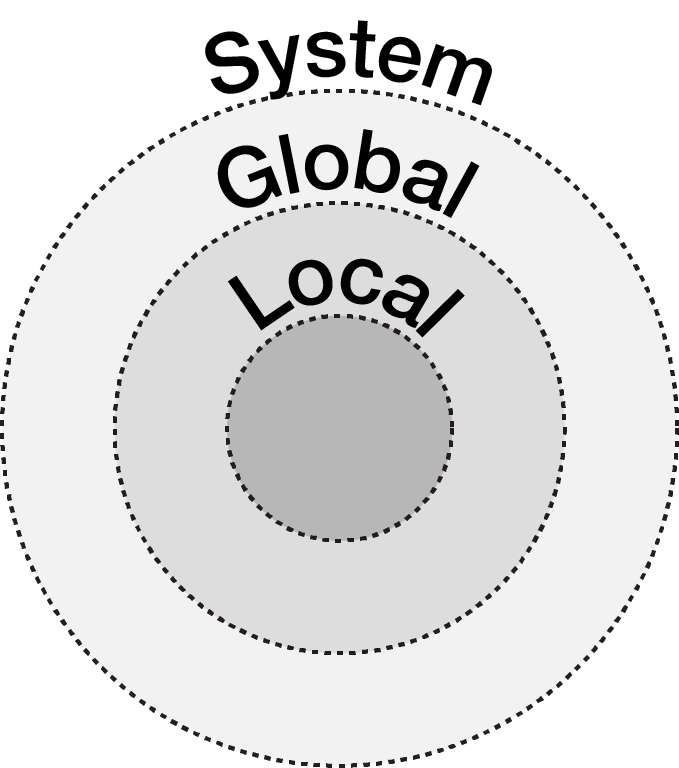
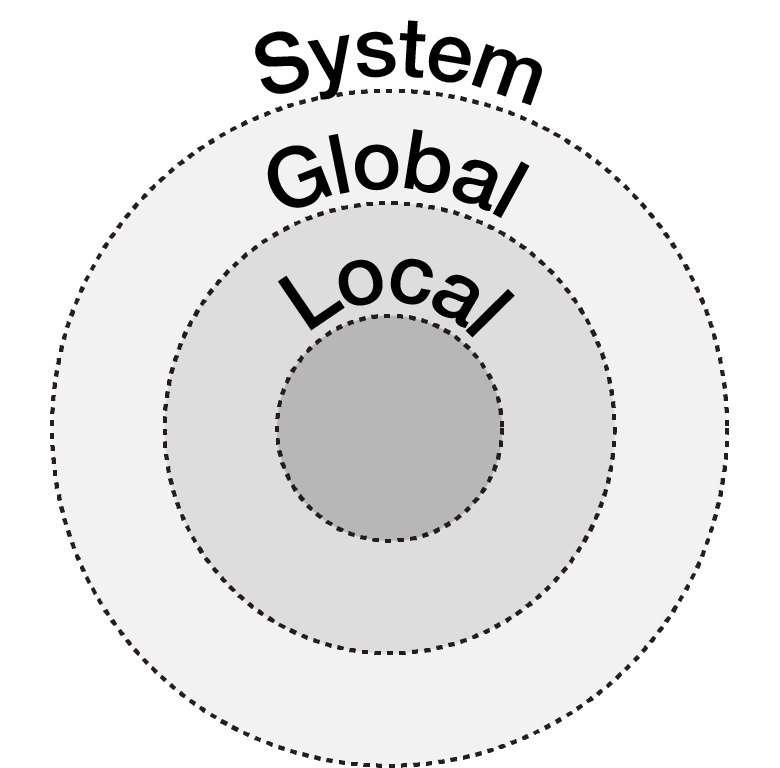
Updated slide titles, chapter titles, and diagrams

diff --git a/presentations/_posts/rm-mv/0001-01-01-title.md b/presentations/_posts/rm-mv/0001-01-01-title.md
@@ -5,7 +5,9 @@ title: ''
 tags: ['rm-mv']
 ---
 
-<img class="diagram" src="assets/diagrams/git-file-states.png">
+<div class="diagram-group">
+	<img class="diagram" src="assets/diagrams/git-file-states.png">
+</div>
 
 {% include hydeslides/notes-open.html %}
 (Diagram: Removing Files)

diff --git a/presentations/_posts/commit/0001-02-01-title.md b/presentations/_posts/commit/0001-02-01-title.md
@@ -6,3 +6,7 @@ tags: ['commit']
 ---
 
 <img class="diagram" src="assets/diagrams/git-commit-structure.png">
+
+{% include hydeslides/notes-open.html %}
+three stage thinking
+{% include hydeslides/notes-close.html %}

diff --git a/presentations/_posts/config/0007-01-01-title.md b/presentations/_posts/config/0007-01-01-title.md
@@ -4,9 +4,6 @@ layout: slide
 title: Secure Sockets Host (SSH)
 tags: ['config']
 ---
-
-Generate an ssh key pair
-
 	$ ssh-keygen -t rsa -C”For GitHub”
 
 	# Verify the files were created

diff --git a/presentations/_posts/config/0002-02-01-title.md b/presentations/_posts/config/0002-02-01-title.md
@@ -4,5 +4,6 @@ layout: slide
 title: ''
 tags: ['config']
 ---
-
+<div class="diagram-group">
 <img class="diagram" src="assets/diagrams/git-config-layers.png">
+</div>

diff --git a/presentations/_posts/ignore/0002-01-01-title.md b/presentations/_posts/ignore/0002-01-01-title.md
@@ -1,7 +1,7 @@
 ---
-chapter: Title
+chapter: Ignore
 layout: slide
-title: ''
+title: 'Project Ignore'
 tags: ['ignore']
 ---
 

diff --git a/presentations/_posts/log/0004-01-01-title.md b/presentations/_posts/log/0004-01-01-title.md
@@ -1,7 +1,7 @@
 ---
 chapter: Log
 layout: slide
-title: 'Limiting output'
+title: 'Limiting Output'
 tags: ['log']
 ---
 

diff --git a/presentations/_posts/ignore/0003-01-01-title.md b/presentations/_posts/ignore/0003-01-01-title.md
@@ -1,5 +1,5 @@
 ---
-chapter: Title
+chapter: Ignore
 layout: slide
 title: 'Excludes File'
 tags: ['ignore']
